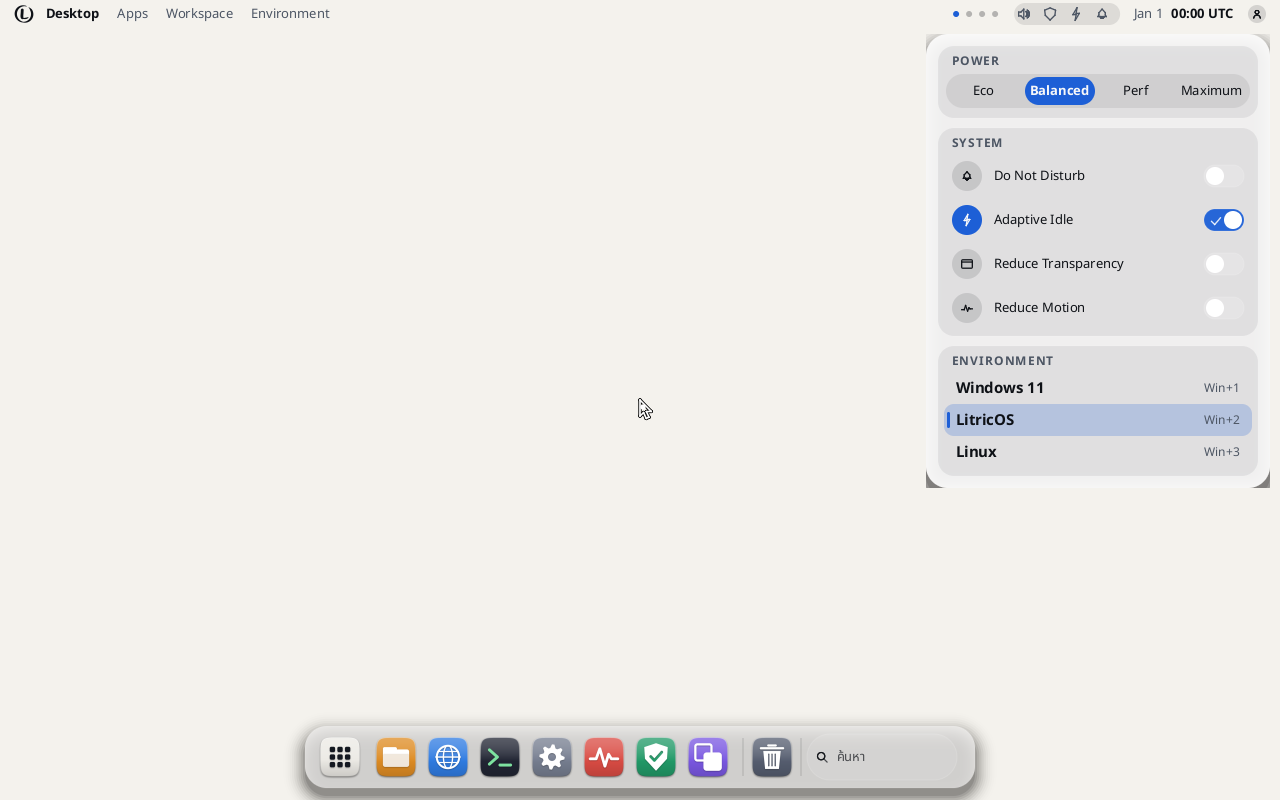
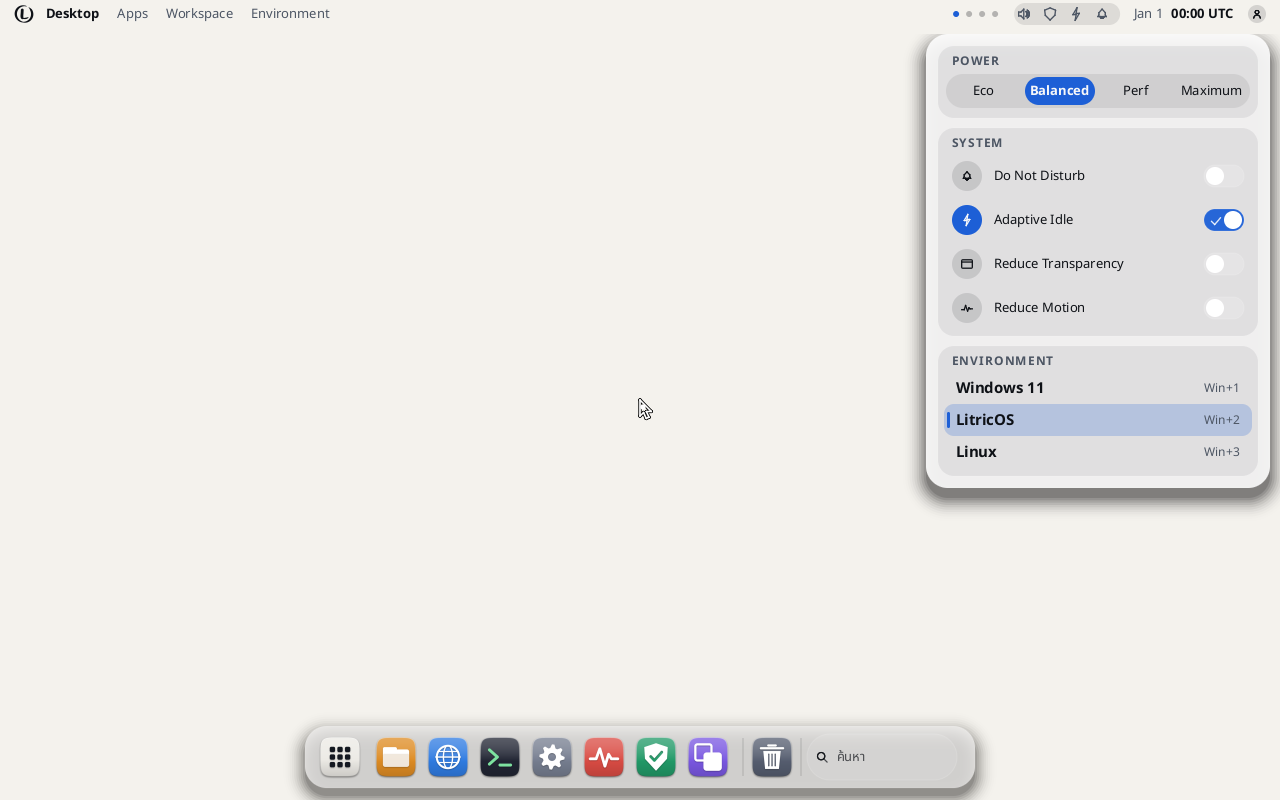
Control Centre: draw its shadow under a wider clip so the rounded corners stay round
Claude-Session: https://claude.ai/code/session_01UNZbmmCPa4qArK3yKDd6KB

Changed region(s): [[0.6875, 0.0625, 1.0, 0.6562]]

diff --git a/src/litric-shell/src/views.rs b/src/litric-shell/src/views.rs
@@ -4373,8 +4373,26 @@ fn draw_quick_settings(canvas: &mut Canvas, shell: &mut Shell) {
         return;
     }
     let shown_h = panel.h * reveal;
+    // The shadow is drawn under a wider clip than the glass. Cut to the panel's
+    // own rectangle it fills the gaps its rounded corners leave, and the panel
+    // looks square-cornered on a pale desktop.
+    let reach = t.px(40.0);
+    let shadow_clip = canvas.push_clip(Rect::new(
+        panel.x - reach,
+        panel.y,
+        panel.w + reach * 2.0,
+        shown_h + reach,
+    ));
+    canvas.soft_shadow(
+        Rect::new(panel.x, panel.y, panel.w, shown_h),
+        t.px(22.0),
+        t.px(28.0),
+        t.px(10.0),
+        0.55,
+    );
+    canvas.set_clip(shadow_clip);
     let saved = canvas.push_clip(Rect::new(panel.x, panel.y, panel.w, shown_h));
-    ui::surface(canvas, &t, panel, t.px(22.0), Material::Popover);
+    crate::desktop::glass_at(canvas, &t.theme, panel, t.px(22.0), 88);
 
     let card = |canvas: &mut Canvas, r: Rect| {
         canvas.fill_round_rect(r, card_radius, with_alpha(t.text(), 0.07));
